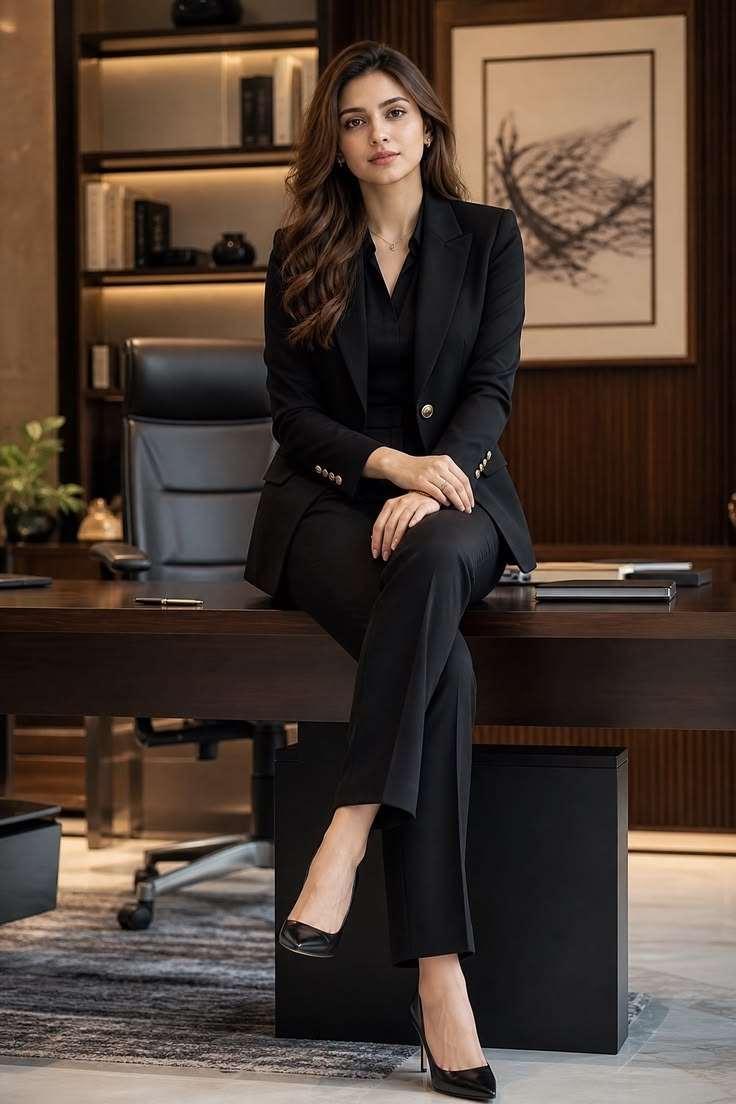
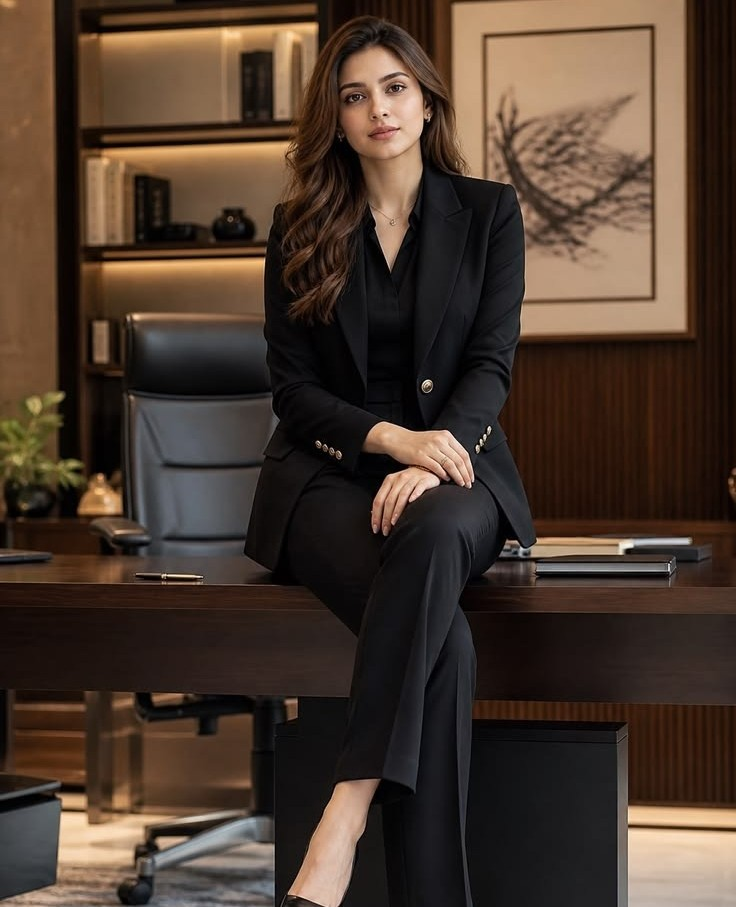
feat: change default special image from lavie1 to lavie

diff --git a/frontend/src/lib/brandingStore.ts b/frontend/src/lib/brandingStore.ts
@@ -49,7 +49,7 @@ export const DEFAULT_BRANDING: BrandingSettings = {
   photoAboutTransform: { ...DEFAULT_TRANSFORM },
   photoBlog: 'https://images.unsplash.com/photo-1567532939604-b6b5b0db2604?auto=format&fit=crop&w=1000&q=80',
   photoBlogTransform: { ...DEFAULT_TRANSFORM },
-  photoSpecial: '/lavie1.png',
+  photoSpecial: '/lavie.png',
   photoSpecialTransform: { ...DEFAULT_TRANSFORM, fit: 'contain' },
 };
 
@@ -82,7 +82,7 @@ export const PRESET_PHOTOS = {
     { name: 'Warm Lighting Editorial', url: 'https://images.unsplash.com/photo-1573497019940-1c28c88b4f3e?auto=format&fit=crop&w=1000&q=80' },
   ],
   special: [
-    { name: 'Special Collage (Default)', url: '/lavie1.png' },
+    { name: 'Special Collage (Default)', url: '/lavie.png' },
     { name: 'Minimalist Office', url: 'https://images.unsplash.com/photo-1524758631624-e2822e304c36?auto=format&fit=crop&w=1000&q=80' },
     { name: 'Luxury Interior', url: 'https://images.unsplash.com/photo-1600210492486-724fe5c67fb0?auto=format&fit=crop&w=1000&q=80' },
   ],

diff --git a/frontend/src/components/WhatMakesUsSpecial.tsx b/frontend/src/components/WhatMakesUsSpecial.tsx
@@ -14,7 +14,7 @@ export const WhatMakesUsSpecial: React.FC<WhatMakesUsSpecialProps> = ({ currentL
   useEffect(() => {
     const update = () => {
       const b = getBrandingSettings();
-      setPhotoSpecial(b.photoSpecial || '/lavie1.png');
+      setPhotoSpecial(b.photoSpecial || '/lavie.png');
       setPhotoTransform(b.photoSpecialTransform);
     };
     update();
